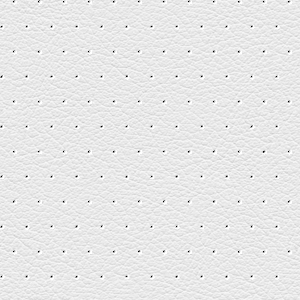
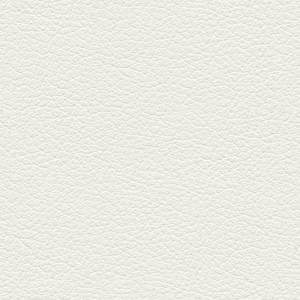
backgrounds changes

diff --git a/app/assets/stylesheets/scaffolds.css.scss b/app/assets/stylesheets/scaffolds.css.scss
@@ -1,7 +1,7 @@
 html, body{
   width: 100%;
   height: 100%;
-  background: url(image_path('background2.png')) #000 repeat;
+  background: url(image_path('background1.png')) #222 repeat;
   color: #333;
   font-family: verdana, arial, helvetica, sans-serif;
   font-size: 13px;
@@ -13,7 +13,7 @@ html, body{
   width: 1024px;
   height: 100%;
   margin: auto;
-  background: url(image_path('background1.png')) #222 repeat;
+  background: url(image_path('background.png')) #222 repeat;
   border-left: 1px solid black;
   border-right:1px solid black;
   border-radius: 0px;
@@ -142,7 +142,7 @@ div {
 
 .form-body, .table-wrapper-body{
   padding: 10px;
-  background: url(image_path('background.png')) #fff repeat;
+  background: url(image_path('background2.png')) #fff repeat;
   border-radius: 0px 0px 10px 10px;
 }
 
